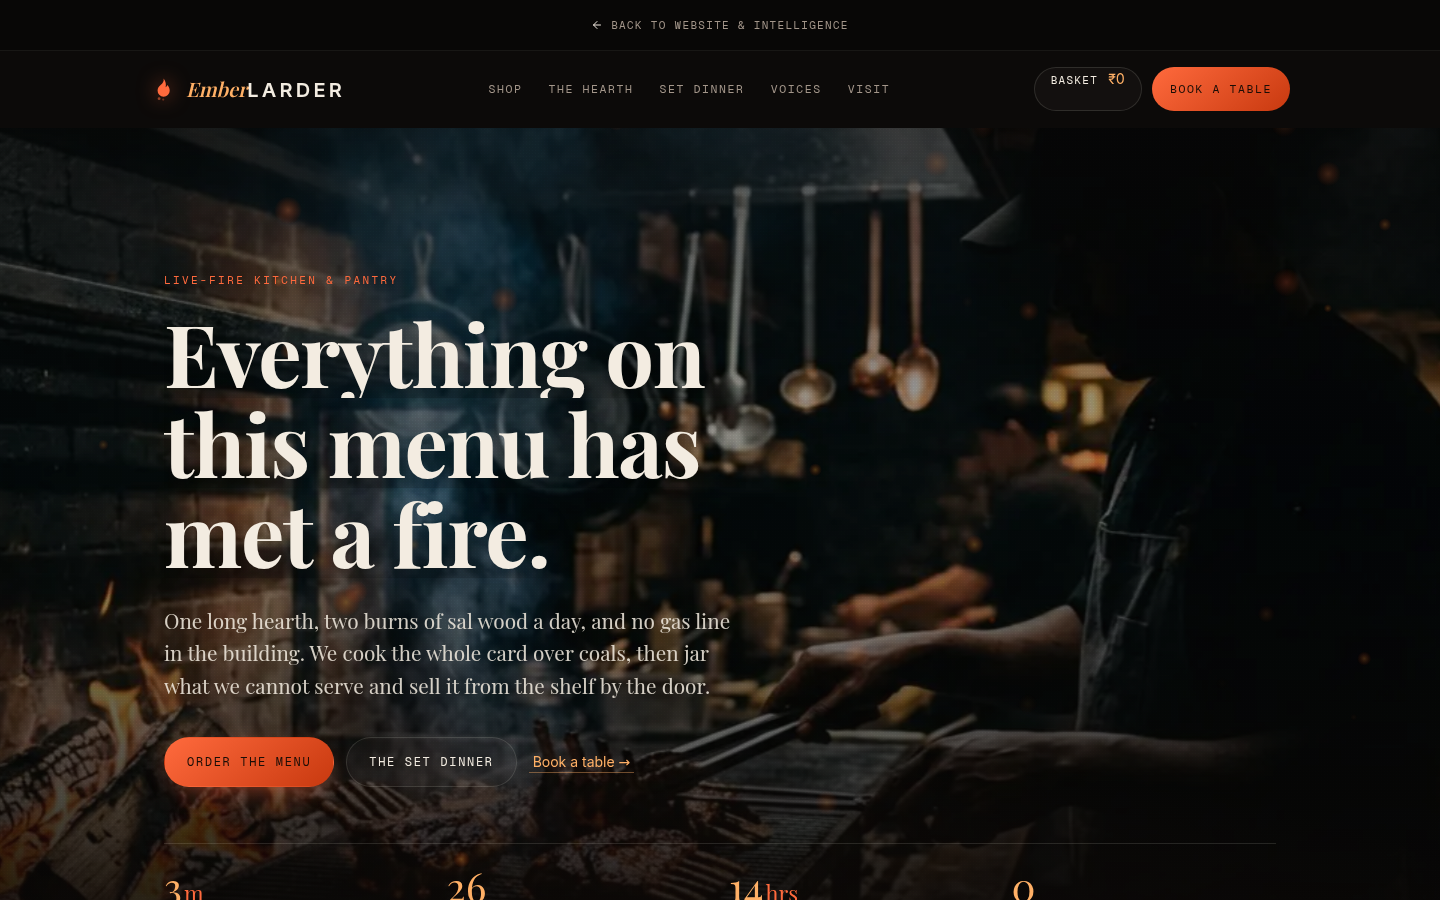
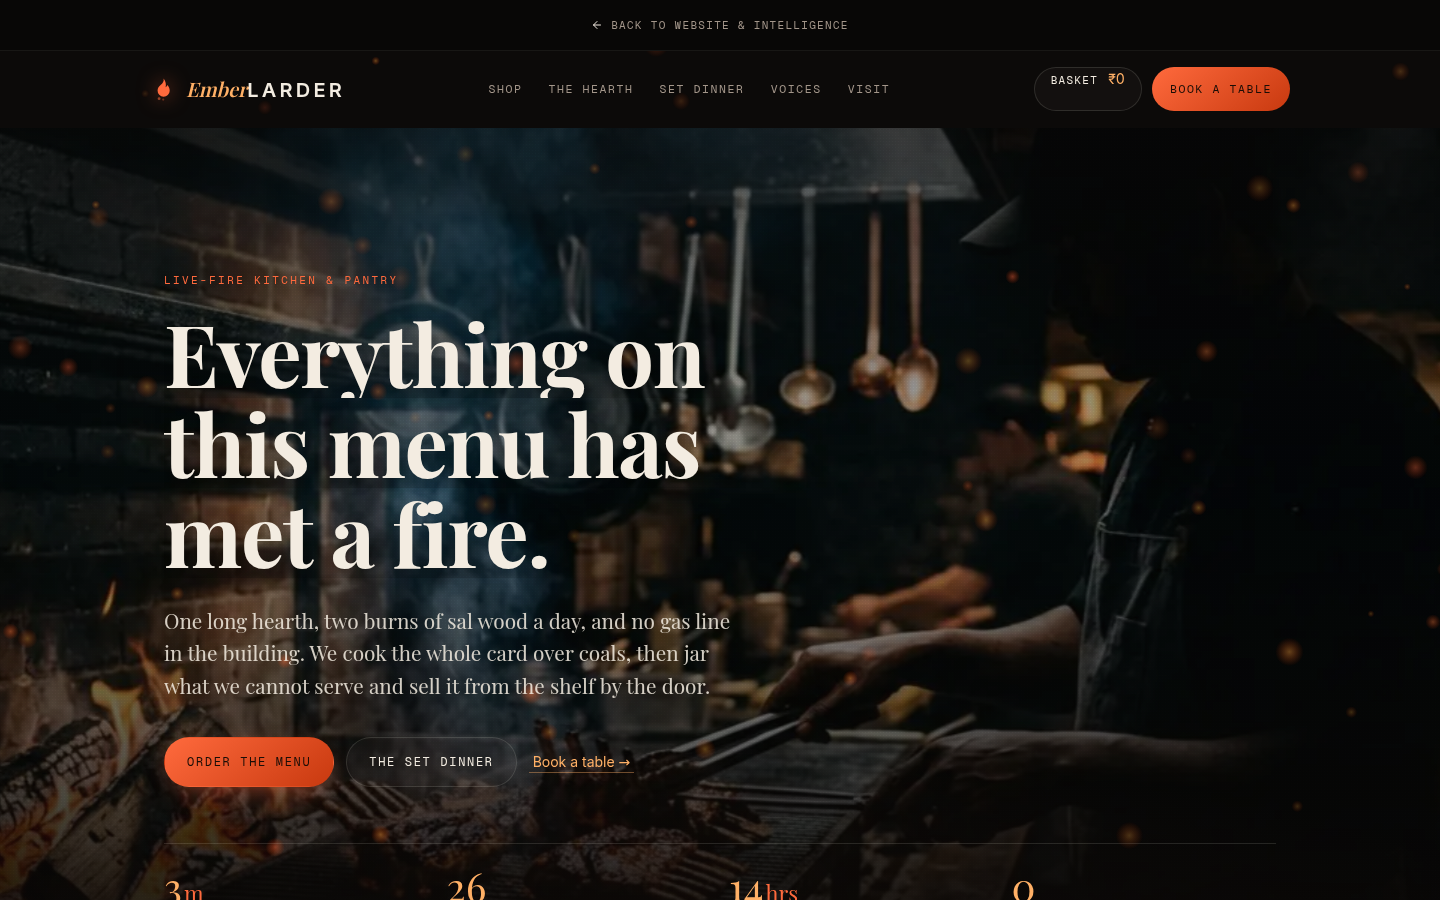
feat(ember-larder): run the hearth behind the whole page
The coals were a hero effect that stopped at the fold, so everything below
it sat on flat black. One fixed canvas now backs the entire document, with
the bands, the footer and the brand strip raised over it.

Panels became translucent rather than frosted: a backdrop-filter inside a
raised band samples only that band, which measured as 20 changed pixels
across the product cards against 496 without it. The dialog, the pass and
the header keep real frost because they sit above the bands anyway.

The field ticks on a 30 fps clock now that it never leaves the screen, and
still paints a single still scatter under prefers-reduced-motion — verified
in the browser: 14,357 lit pixels, zero of them moving.

diff --git a/app/globals.css b/app/globals.css
@@ -5907,6 +5907,10 @@ html.lenis body {
 }
 
 .ember-larder .el-band {
+  /* Above the fixed coal field, so the panels can frost it rather than be
+     washed over by it. */
+  position: relative;
+  z-index: 3;
   padding-block: clamp(76px, 10vw, 140px);
   /* Every anchor in the nav points at one of these, and the header is sticky —
      without the margin the first line of a band lands underneath it. */
@@ -6047,6 +6051,10 @@ html.lenis body {
 
 /* --- Header -------------------------------------------------- */
 .ember-larder .el-topbar {
+  /* Above the coal field — the strip that returns you to the brand shell stays
+     readable, it is chrome rather than part of the room. */
+  position: relative;
+  z-index: 3;
   background: #080706;
   border-bottom: 1px solid var(--el-line-soft);
   font-family: var(--font-label), ui-monospace, monospace;
@@ -6270,7 +6278,17 @@ html.lenis body {
   background-size: 3px 3px;
 }
 
+/* The hearth is the page's light source, not a hero decoration: one canvas
+   pinned to the viewport, painting above the photograph (auto-positioned) and
+   below the copy and bands (z-index 3). Its ancestors stay transform-free, or
+   the layer stops being locked to the viewport and scrolls away with them. A
+   canvas is a replaced element, so `inset` alone leaves it at its intrinsic
+   300x150 — the box has to be asked for. */
 .ember-larder .el-ember {
+  position: fixed;
+  inset: 0;
+  width: 100%;
+  height: 100%;
   z-index: 2;
   pointer-events: none;
 }
@@ -6475,7 +6493,10 @@ html.lenis body {
   flex-direction: column;
   border: 1px solid var(--el-line);
   border-radius: 20px;
-  background: linear-gradient(170deg, var(--el-char), #100d0b 70%);
+  /* Smoke, not frost. A blurred panel inside a raised band samples only the
+     band, so the fixed coal field stops reaching these pixels: measured at 20
+     changed pixels across the cards with `backdrop-filter`, 496 without it. */
+  background: linear-gradient(170deg, rgba(23, 19, 16, 0.62), rgba(16, 13, 11, 0.8) 70%);
   overflow: hidden;
   transition: border-color 260ms, box-shadow 260ms;
 }
@@ -6687,7 +6708,9 @@ html.lenis body {
   overflow: auto;
   border: 1px solid var(--el-line);
   border-radius: 22px;
-  background: linear-gradient(165deg, #191512, #100d0b 75%);
+  background: linear-gradient(165deg, rgba(25, 21, 18, 0.9), rgba(16, 13, 11, 0.96) 75%);
+  backdrop-filter: blur(20px) saturate(115%);
+  -webkit-backdrop-filter: blur(20px) saturate(115%);
   display: grid;
   grid-template-columns: minmax(0, 0.92fr) minmax(0, 1.08fr);
   overscroll-behavior: contain;
@@ -6897,7 +6920,9 @@ html.lenis body {
   height: 100%;
   display: flex;
   flex-direction: column;
-  background: linear-gradient(180deg, #16120f, #0e0b09);
+  background: linear-gradient(180deg, rgba(22, 18, 15, 0.9), rgba(14, 11, 9, 0.96));
+  backdrop-filter: blur(18px) saturate(115%);
+  -webkit-backdrop-filter: blur(18px) saturate(115%);
   border-left: 1px solid var(--el-line);
   padding-bottom: env(safe-area-inset-bottom);
   overscroll-behavior: contain;
@@ -7239,7 +7264,10 @@ html.lenis body {
 
 /* --- The hearth (story) -------------------------------------- */
 .ember-larder .el-story {
-  background: linear-gradient(180deg, var(--el-soot), #100d0b 60%, var(--el-soot));
+  /* Band washes are alpha only: they deepen the room without ever fully hiding
+     the fire behind it. */
+  background: linear-gradient(180deg, rgba(12, 10, 9, 0), rgba(16, 13, 11, 0.55) 60%,
+      rgba(12, 10, 9, 0));
 }
 
 .ember-larder .el-story-grid {
@@ -7351,7 +7379,7 @@ html.lenis body {
 
 /* --- The set dinner ------------------------------------------ */
 .ember-larder .el-set {
-  background: #0e0c0a;
+  background: rgba(14, 12, 10, 0.55);
 }
 
 .ember-larder .el-set-head {
@@ -7373,7 +7401,7 @@ html.lenis body {
   padding: 22px;
   border: 1px solid rgba(255, 106, 61, 0.3);
   border-radius: 20px;
-  background: rgba(255, 106, 61, 0.06);
+  background: linear-gradient(160deg, rgba(255, 106, 61, 0.13), rgba(255, 106, 61, 0.04));
   display: grid;
   gap: 8px;
   justify-items: start;
@@ -7500,7 +7528,7 @@ html.lenis body {
   padding: 24px 24px 20px;
   border: 1px solid var(--el-line);
   border-radius: 18px;
-  background: linear-gradient(165deg, var(--el-char), #100d0b);
+  background: linear-gradient(165deg, rgba(23, 19, 16, 0.62), rgba(16, 13, 11, 0.8));
   transform: rotate(var(--el-tilt, 0deg));
   transition: transform 320ms cubic-bezier(0.22, 1, 0.36, 1), border-color 320ms;
 }
@@ -7563,7 +7591,7 @@ html.lenis body {
 
 /* --- Booking sheet ------------------------------------------- */
 .ember-larder .el-reserve {
-  background: linear-gradient(180deg, var(--el-soot), #100d0b);
+  background: linear-gradient(180deg, rgba(12, 10, 9, 0), rgba(16, 13, 11, 0.6));
 }
 
 .ember-larder .el-reserve-grid {
@@ -7615,7 +7643,7 @@ html.lenis body {
   padding: clamp(20px, 3vw, 30px);
   border: 1px solid var(--el-line);
   border-radius: 22px;
-  background: rgba(243, 236, 225, 0.025);
+  background: linear-gradient(165deg, rgba(243, 236, 225, 0.055), rgba(243, 236, 225, 0.018));
   box-shadow: 0 30px 80px -50px rgba(0, 0, 0, 0.9);
 }
 
@@ -7839,7 +7867,7 @@ html.lenis body {
 .ember-larder .el-plan {
   border: 1px solid var(--el-line);
   border-radius: 22px;
-  background: linear-gradient(165deg, #14100d, #0c0a09);
+  background: linear-gradient(165deg, rgba(20, 16, 13, 0.6), rgba(12, 10, 9, 0.78));
   overflow: hidden;
 }
 
@@ -7850,7 +7878,9 @@ html.lenis body {
 }
 
 .ember-larder .el-plan-ground {
-  fill: #100d0b;
+  /* The plan sits on the glass, so its ground is a wash rather than a fill —
+     coals still read through the map. */
+  fill: rgba(16, 13, 11, 0.55);
 }
 
 .ember-larder .el-plan-road {
@@ -7916,8 +7946,12 @@ html.lenis body {
 
 /* --- Footer -------------------------------------------------- */
 .ember-larder .el-footer {
+  position: relative;
+  z-index: 3;
   border-top: 1px solid var(--el-line);
-  background: #080706;
+  /* The last band is the one the coals rise into, so it fades rather than
+     closes — the glow is still there under the fine print. */
+  background: linear-gradient(180deg, rgba(8, 7, 6, 0.5), rgba(8, 7, 6, 0.92) 62%);
   padding-block: clamp(46px, 6vw, 72px) 26px;
 }
 

diff --git a/test/ember-larder.test.ts b/test/ember-larder.test.ts
@@ -402,7 +402,6 @@ describe('ember larder motion', () => {
     expect(hero).toMatch(/useTransform\(scrollYProgress/);
     expect(hero).toMatch(/style=\{\{ y: imageY \}\}/);
     expect(hero).toMatch(/style=\{\{ y: copyY, opacity: copyFade \}\}/);
-    expect(hero).toMatch(/<EmberField/);
     expect(hero).toMatch(/<Image[\s\S]*?priority[\s\S]*?\/>/);
     expect(hero).toMatch(/el-ticker/);
     expect(ticker.length).toBeGreaterThanOrEqual(4);
@@ -429,6 +428,56 @@ describe('ember larder motion', () => {
     // Reduced motion paints once instead of looping.
     expect(field).toMatch(/if \(reduce\) paint\(\);/);
     expect(field).toMatch(/aria-hidden/);
+    // A page-wide field does not need sixty frames.
+    expect(field).toMatch(/const FRAME_MS = 1000 \/ 30;/);
+    expect(field).toMatch(/if \(now - last < FRAME_MS\) return;/);
+  });
+
+  it('burns one coal field behind the whole page, not one per band', () => {
+    const page = read(`${ROOT}/EmberLarder.tsx`);
+    const hero = read(`${ROOT}/Hero.tsx`);
+    const css = read('app/globals.css');
+    expect(page).toMatch(/<EmberField className="el-ember" /);
+    expect(hero).not.toMatch(/EmberField/);
+    // Pinned to the viewport, above the photograph, below the copy and bands.
+    expect(css).toMatch(/\.ember-larder \.el-ember\s*\{[^}]*position:\s*fixed/);
+    expect(css).toMatch(/\.ember-larder \.el-ember\s*\{[^}]*z-index:\s*2/);
+    // A canvas is a replaced element: `inset: 0` alone leaves it 300x150.
+    expect(css).toMatch(/\.ember-larder \.el-ember\s*\{[^}]*width:\s*100%/);
+    expect(css).toMatch(/\.ember-larder \.el-ember\s*\{[^}]*height:\s*100%/);
+    expect(css).toMatch(/\.ember-larder \.el-band\s*\{[^}]*z-index:\s*3/);
+    expect(css).toMatch(/\.ember-larder \.el-footer\s*\{[^}]*z-index:\s*3/);
+  });
+
+  it('lets the coals glow through the panels rather than blurring them out', () => {
+    const css = read('app/globals.css');
+    // Declarations only — a comment may name the property it warns against.
+    const body = (selector: string) =>
+      (css.match(new RegExp(`\\.ember-larder \\.${selector} \\{([^}]*)\\}`))?.[1] ?? '').replace(
+        /\/\*[\s\S]*?\*\//g,
+        '',
+      );
+    // Frost inside a raised band samples only the band, so a blurred card hides
+    // the fire behind it. These panels are translucent and deliberately unblurred.
+    for (const panel of ['el-card', 'el-quote', 'el-form-card', 'el-set-price-card', 'el-plan']) {
+      const rule = body(panel);
+      expect(rule, `${panel} exists`).not.toBe('');
+      expect(rule, `${panel} frosts the fire away`).not.toMatch(/backdrop-filter/);
+      expect(rule, `${panel} is translucent`).toMatch(/background: linear-gradient\([^)]*rgba\(/);
+    }
+    // The sheets that cover the page sit over the bands, so frost is free there.
+    for (const panel of ['el-dialog', 'el-drawer']) {
+      const rule = body(panel);
+      expect(rule, panel).toMatch(/backdrop-filter: blur\(/);
+      const alphas = [...rule.matchAll(/rgba\([^)]*,\s*0\.(\d+)\)/g)].map((m) =>
+        Number(m[1]) / 10 ** m[1].length,
+      );
+      expect(alphas.length, `${panel} fades`).toBeGreaterThan(1);
+      // Below nine tenths a coal drifting past would wash out the ticket.
+      expect(Math.min(...alphas), panel).toBeGreaterThanOrEqual(0.9);
+    }
+    // A map you cannot see the fire through is just a coloured rectangle.
+    expect(css).toMatch(/\.ember-larder \.el-plan-ground \{[^}]*fill: rgba\(/);
   });
 
   it('leans each product card toward the pointer in real 3D', () => {

diff --git a/components/sites/ember-larder/EmberField.tsx b/components/sites/ember-larder/EmberField.tsx
@@ -18,12 +18,16 @@ interface Coal {
   hue: number;
 }
 
+// A background never needs 60 frames, and this one now sits behind every panel
+// on the page rather than only behind the hero.
+const FRAME_MS = 1000 / 30;
+
 /**
  * The hearth glow: a canvas of coals lifting off the bottom edge and dying out
- * as they climb. One rAF loop, one canvas, and it stops itself when the hero
- * scrolls out of view or the tab is hidden — the effect never runs off-screen.
- * Under `prefers-reduced-motion` it paints one still scatter instead, so the
- * hero keeps its warmth without the movement.
+ * as they climb. One rAF loop ticking at 30 fps, one canvas, and it stops itself
+ * when the layer is off-screen or the tab is hidden — the effect never runs out
+ * of sight. Under `prefers-reduced-motion` it paints one still scatter instead,
+ * so the page keeps its warmth without the movement.
  */
 export function EmberField({ className, count = 46 }: EmberFieldProps) {
   const ref = useRef<HTMLCanvasElement>(null);
@@ -83,8 +87,15 @@ export function EmberField({ className, count = 46 }: EmberFieldProps) {
       ctx.globalCompositeOperation = 'source-over';
     }
 
-    const step = () => {
+    // The canvas keeps asking for a frame every vsync, but the coals only move on
+    // a 30 fps clock — a background field does not need to be any smoother.
+    let last = 0;
+
+    const step = (now: number) => {
       if (!running) return;
+      frame = requestAnimationFrame(step);
+      if (now - last < FRAME_MS) return;
+      last = now;
       for (const c of coals) {
         c.y -= c.vy;
         // A lazy sway, plus a nudge toward wherever the pointer is.
@@ -94,7 +105,6 @@ export function EmberField({ className, count = 46 }: EmberFieldProps) {
       }
       drift *= 0.94;
       paint();
-      frame = requestAnimationFrame(step);
     };
 
     // One loop, started and stopped as a pair — a second `requestAnimationFrame`

diff --git a/components/sites/ember-larder/EmberLarder.tsx b/components/sites/ember-larder/EmberLarder.tsx
@@ -4,6 +4,7 @@ import { useEffect, useMemo, useReducer, useState } from 'react';
 import { AnimatePresence, MotionConfig } from 'framer-motion';
 import { BasketBar } from './BasketBar';
 import { CartDrawer } from './CartDrawer';
+import { EmberField } from './EmberField';
 import { Hero } from './Hero';
 import { Nav } from './Nav';
 import { ProductDialog } from './ProductDialog';
@@ -22,6 +23,9 @@ import type { Product, ProductGroup } from './data';
  * door sells jars, and they share a single ticket. The basket lives in session
  * storage, so a reload mid-order keeps the table's ticket but a fresh visit
  * starts cold — which is what a walk-in counter would do anyway.
+ *
+ * The coals are the page's light source, so they run once, fixed behind the
+ * whole document, and every panel is translucent enough to let them through.
  */
 export function EmberLarder() {
   const [cart, dispatch] = useReducer(cartReducer, {} as CartState);
@@ -52,6 +56,8 @@ export function EmberLarder() {
   return (
     <MotionConfig reducedMotion="user">
       <div className="ember-larder min-h-screen" data-bar-up={cartCount(cart) > 0 ? 'true' : 'false'}>
+        <EmberField className="el-ember" count={64} />
+
         <Nav cart={cart} onOpenBasket={() => setBasketOpen(true)} />
 
         <main>

diff --git a/components/sites/ember-larder/Hero.tsx b/components/sites/ember-larder/Hero.tsx
@@ -3,7 +3,6 @@
 import Image from 'next/image';
 import { useEffect, useRef, useState } from 'react';
 import { motion, useInView, useScroll, useTransform } from 'framer-motion';
-import { EmberField } from './EmberField';
 import { larder, ticker } from './data';
 
 /** Printed as three masked lines so the headline lifts into place, one row at a time. */
@@ -42,7 +41,6 @@ export function Hero() {
       </motion.div>
       <div aria-hidden className="el-hero-wash absolute inset-0" />
       <div aria-hidden className="el-hero-grain absolute inset-0" />
-      <EmberField className="el-ember absolute inset-0 h-full w-full" count={52} />
 
       <motion.div
         style={{ y: copyY, opacity: copyFade }}

diff --git a/README.md b/README.md
@@ -31,7 +31,7 @@ The brand site, the portfolio and the demo sites share one app but live in separ
 | Market Pulse | `/stock-screener` | NSE screener on live Yahoo Finance data, via the API routes below |
 | Coffee Cups | `/coffee-cups` | Bagel bakery and coffee bar: 3D barrel menu board, sunrise ticker, rotated photo mosaic |
 | OrderBook | `/analytical-register` | POS register, GST cash memo, WhatsApp bill send, orders log and analytics dashboard |
-| Ember Larder | `/ember-larder` | Live-fire restaurant **and** its retail pantry shelf: variant-priced basket across plates and jars, ember canvas hero, 3D tilt cards, scroll-drawn set dinner, quote belt |
+| Ember Larder | `/ember-larder` | Live-fire restaurant **and** its retail pantry shelf: variant-priced basket across plates and jars, page-wide ember canvas behind frosted-glass panels, 3D tilt cards, scroll-drawn set dinner, quote belt |
 
 Coffee Cups shipped first as *Dream Cafe*. The name, route, component folder, `cc-*` class family and
 `public/` assets all moved in one pass, and `next.config.mjs` keeps `/dream-cafe*` redirecting so old
@@ -102,7 +102,10 @@ so two variants of one plate never merge, and the printed price is always the op
 zero delta. Totals are computed once from the subtotal — GST is rounded a single time, so the rows
 on the pass always add up to the number the button quotes.
 
-The motion is all in service of the room: one `EmberField` canvas of coals in the hero (rAF paused by
+The motion is all in service of the room: one `EmberField` canvas of coals fixed behind the whole
+page — the hero, the bands and the footer all sit above it, and every panel is smoked glass
+(`backdrop-filter` over a translucent fill) so the fire reads through the cards, the ticket and the
+sketch plan rather than being hidden by them (rAF ticks on a 30 fps clock and is paused by
 `IntersectionObserver` and `visibilitychange`, a single still paint under `prefers-reduced-motion`),
 a headline lifted out of per-line masks, pointer-driven 3D tilt on the product cards with a glare that
 follows the cursor, a set-dinner rule drawn by scroll progress, and a quote belt that stops when a
